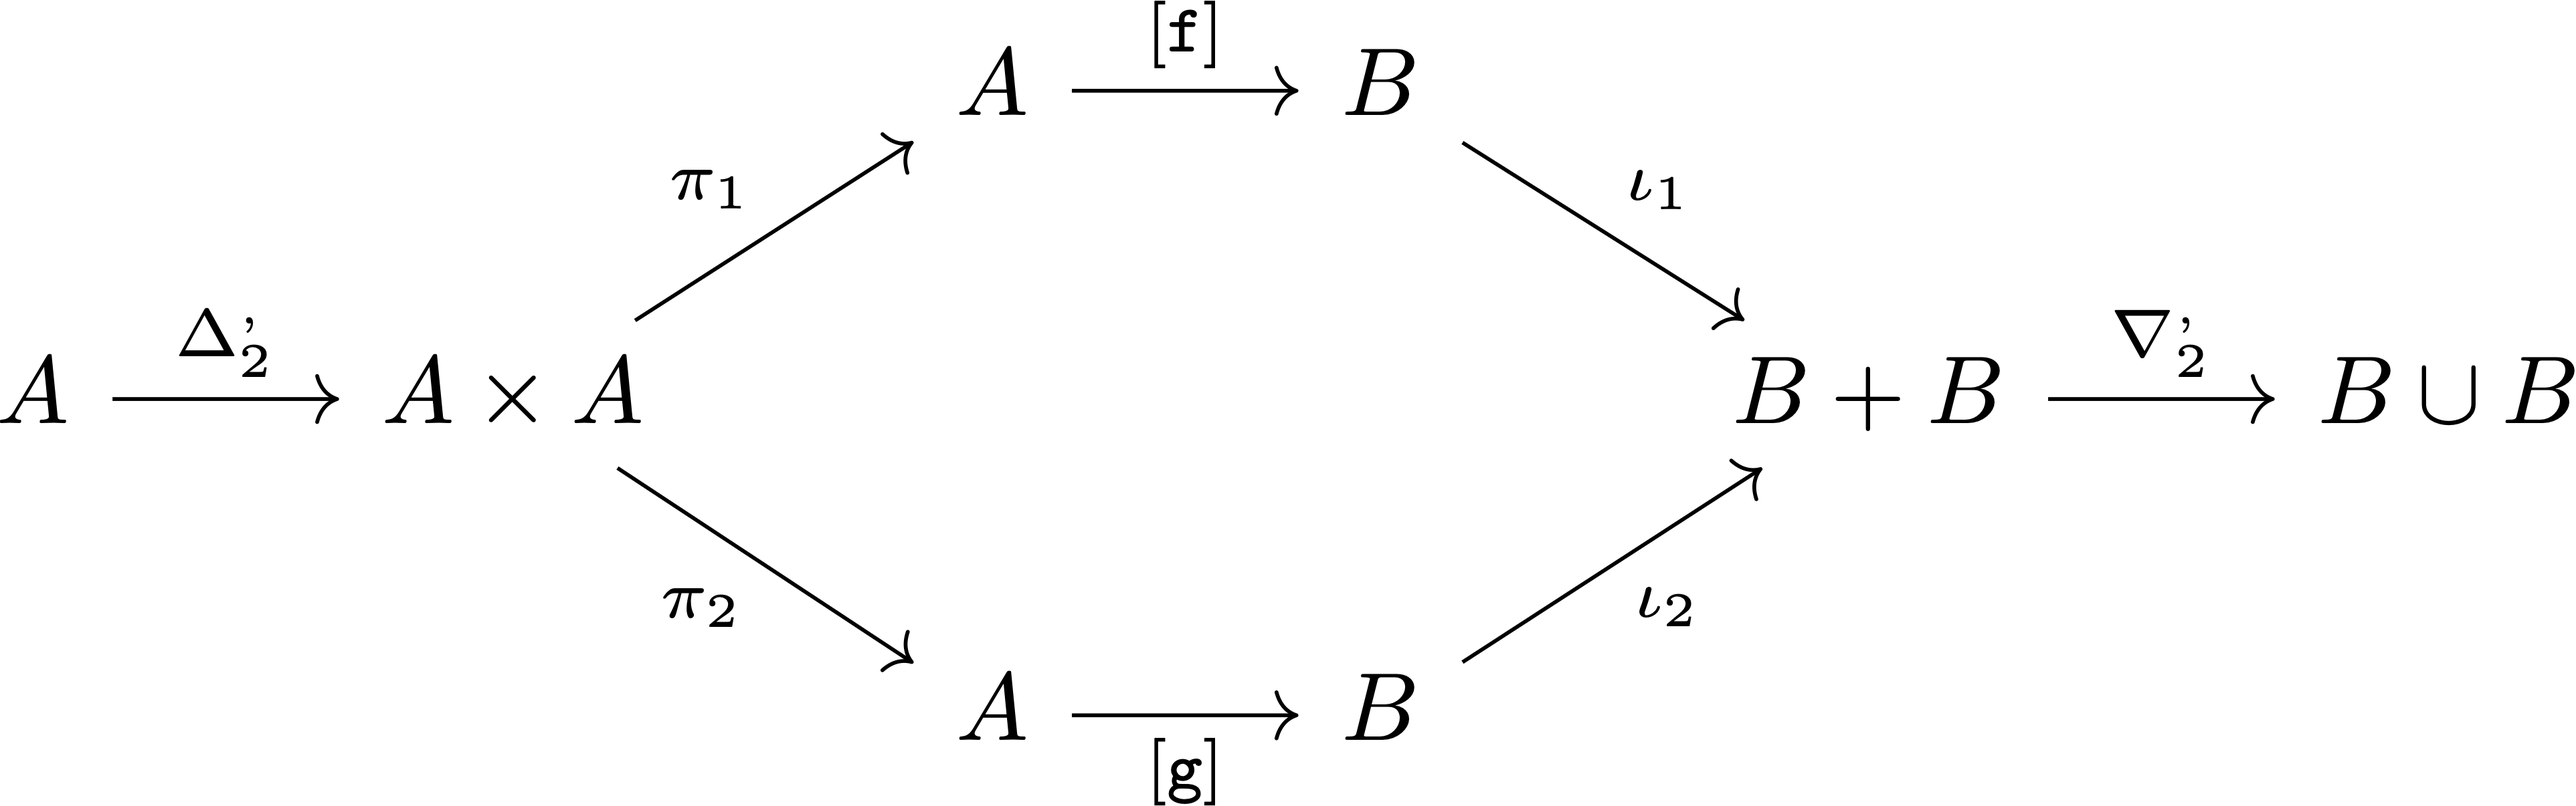
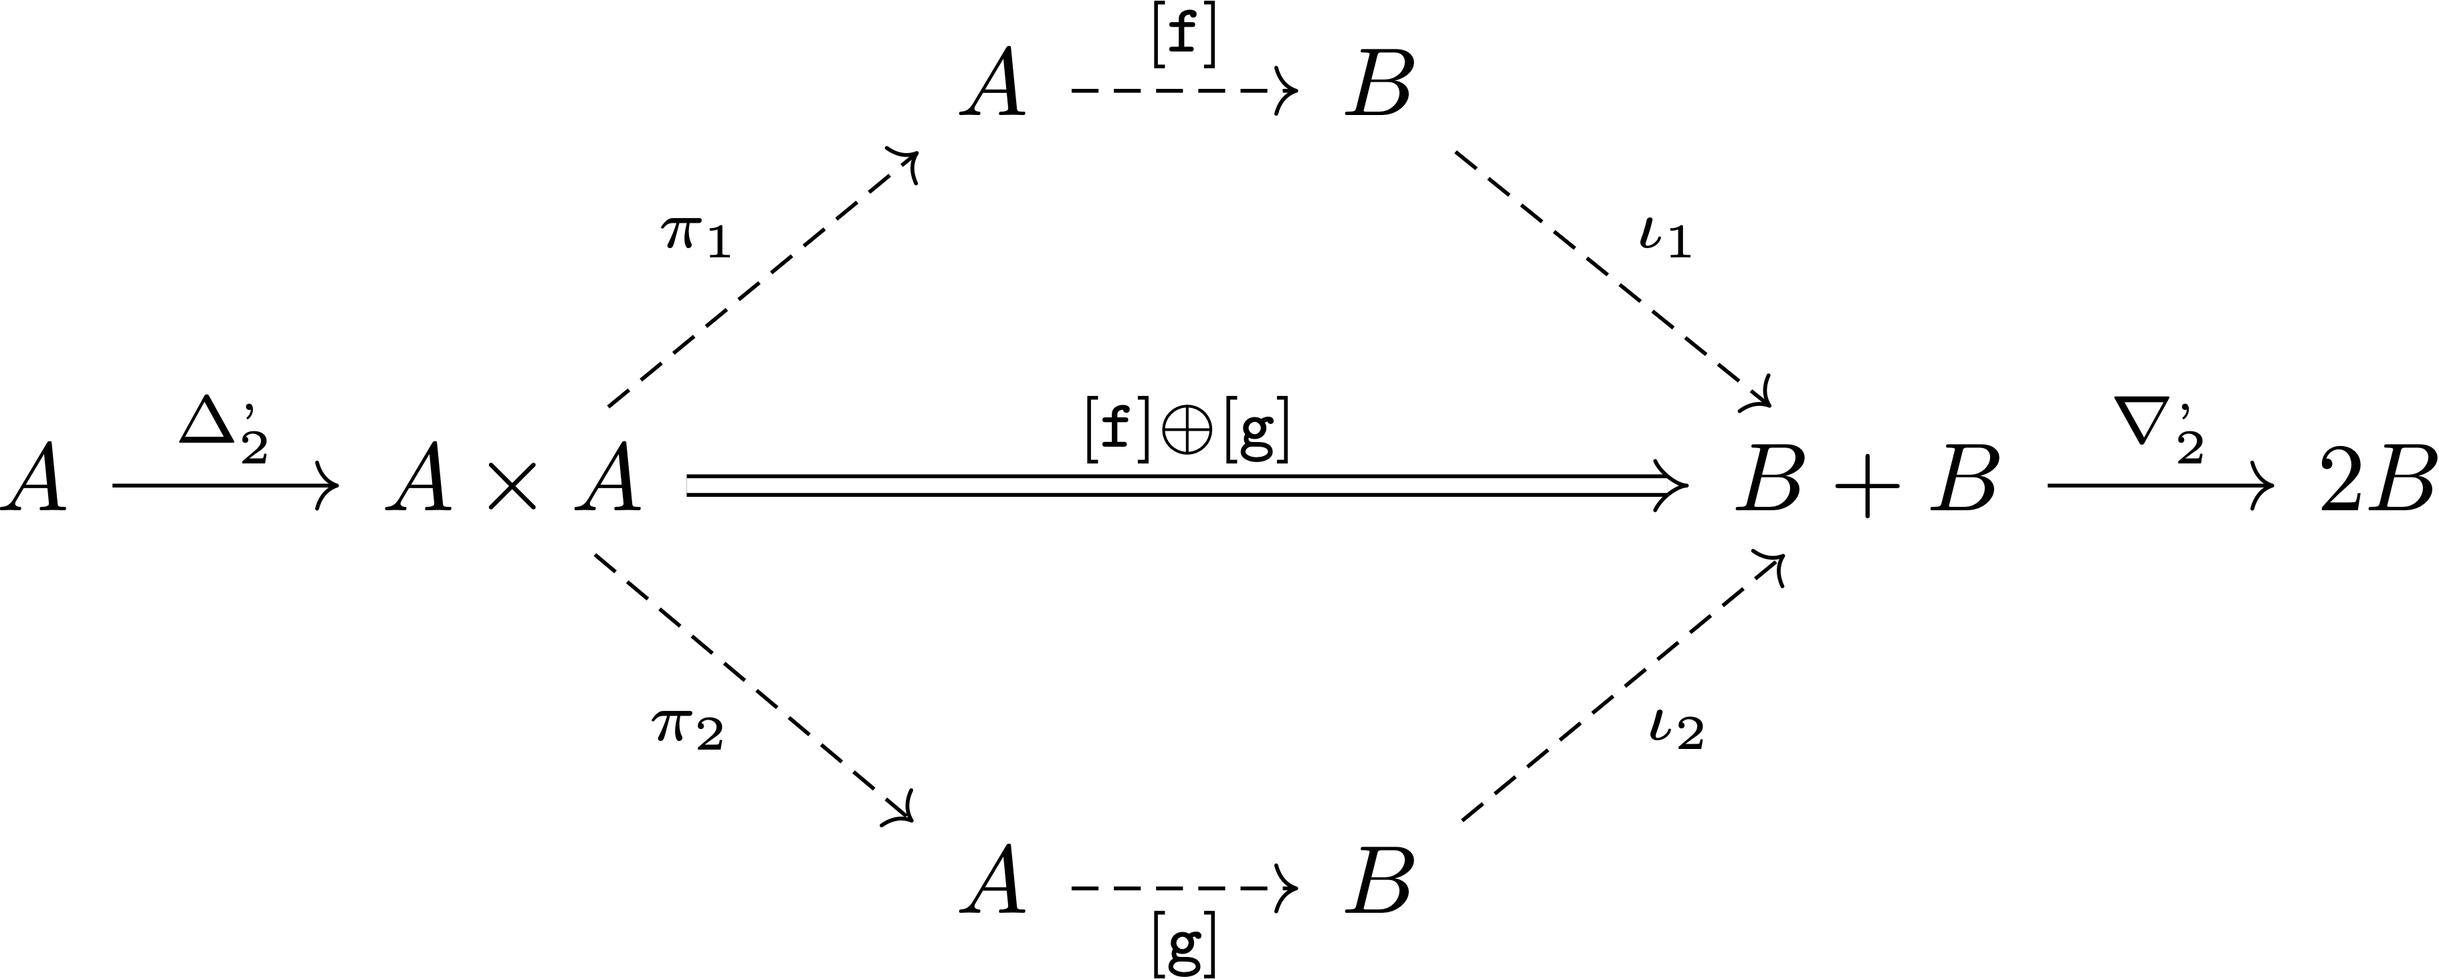
updated delta-nabla diagrams using tensor category notation.

diff --git a/jvm/machine/src/asciidoctor/images/syntax-highlighter.js b/jvm/machine/src/asciidoctor/images/syntax-highlighter.js
@@ -23,7 +23,8 @@ $(document).ready(function(){
                   "special": ["",       ospan + "#710" + cspan],            // dark red
                   "plain":   ["",       ospan + "#000" + cspan]};           // normal black text
   var items =    {"op":      ["a","branch","neg","get","gte","lte","gt","lt","mult","plus","start",
-                              "one","zero","noop","eq","is","id","db","explain","count","fold","map"],
+                              "one","zero","noop","eq","is","id","db","explain","count","fold","map",
+                              "split","merge"],
                   "infix":   ["|"],
                   "vars":    ["a","b","c"],
                   "value":   ["true","false"],
